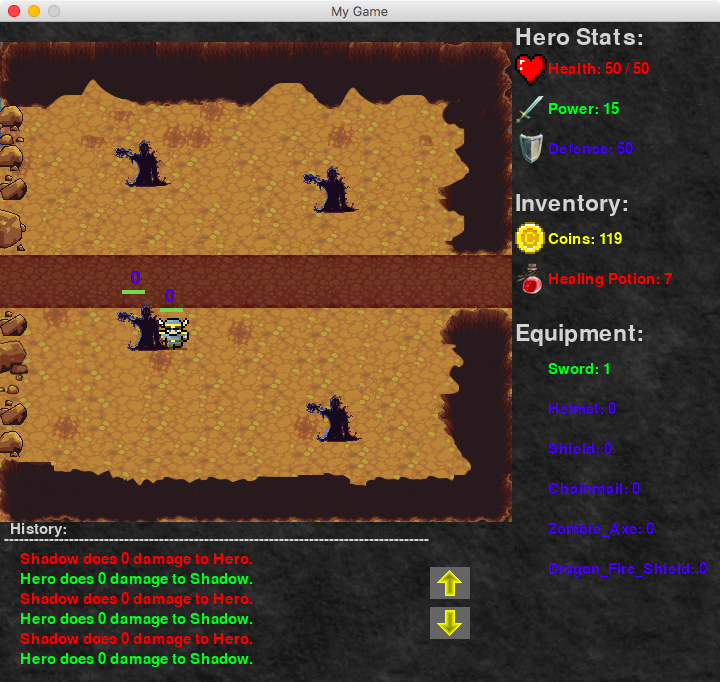
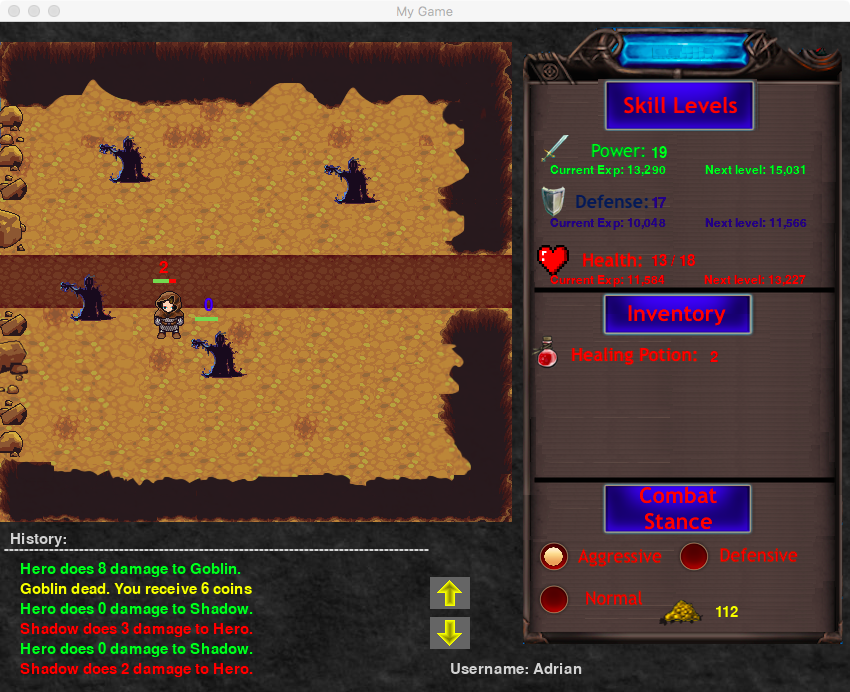
Changed hero rpg page background imge and updated screenshots

diff --git a/projects/mini_rpg_game/styles.css b/projects/mini_rpg_game/styles.css
@@ -1,6 +1,7 @@
 body {
     position: relative;
     background-color: lightgray;
+    background-image: url(images/RPG_Background.png);
 }
 
 p {
@@ -13,10 +14,15 @@ p {
 }
 
 #content {
-    margin: 0 5%
+    margin: 0 auto;
+    background-color: rgba(211, 211, 211, .8);
+    width: 80%;
+    max-width: 1000px;
 }
 
 #top-image{
+    margin-right: auto;
+    margin-left: auto;
     margin-top: 50px;
     max-width: 550px;
     width: 70%;
@@ -31,13 +37,18 @@ p {
     max-width: 550px;
     width: 95%;
     height: auto;
+    margin-right: auto;
+    margin-left: auto;
 }
 
 .game-screenshot {
     max-width: 400px;
+    width: 95%;
     height: auto;
     display: inline-block;
     padding-bottom: 20px;
+    margin-right: auto;
+    margin-left: auto;
 }
 
 .line {
